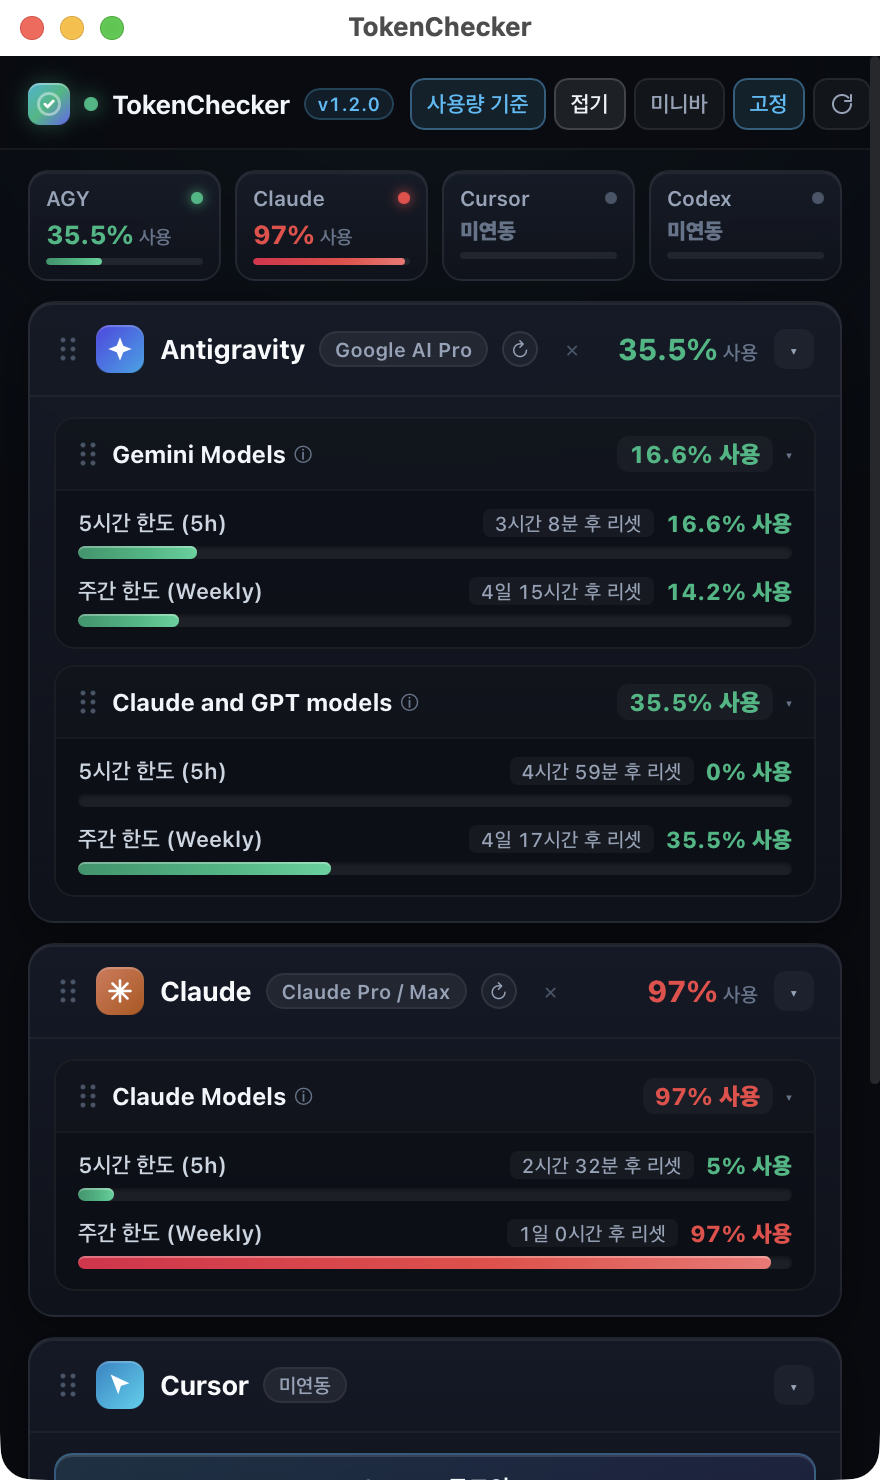
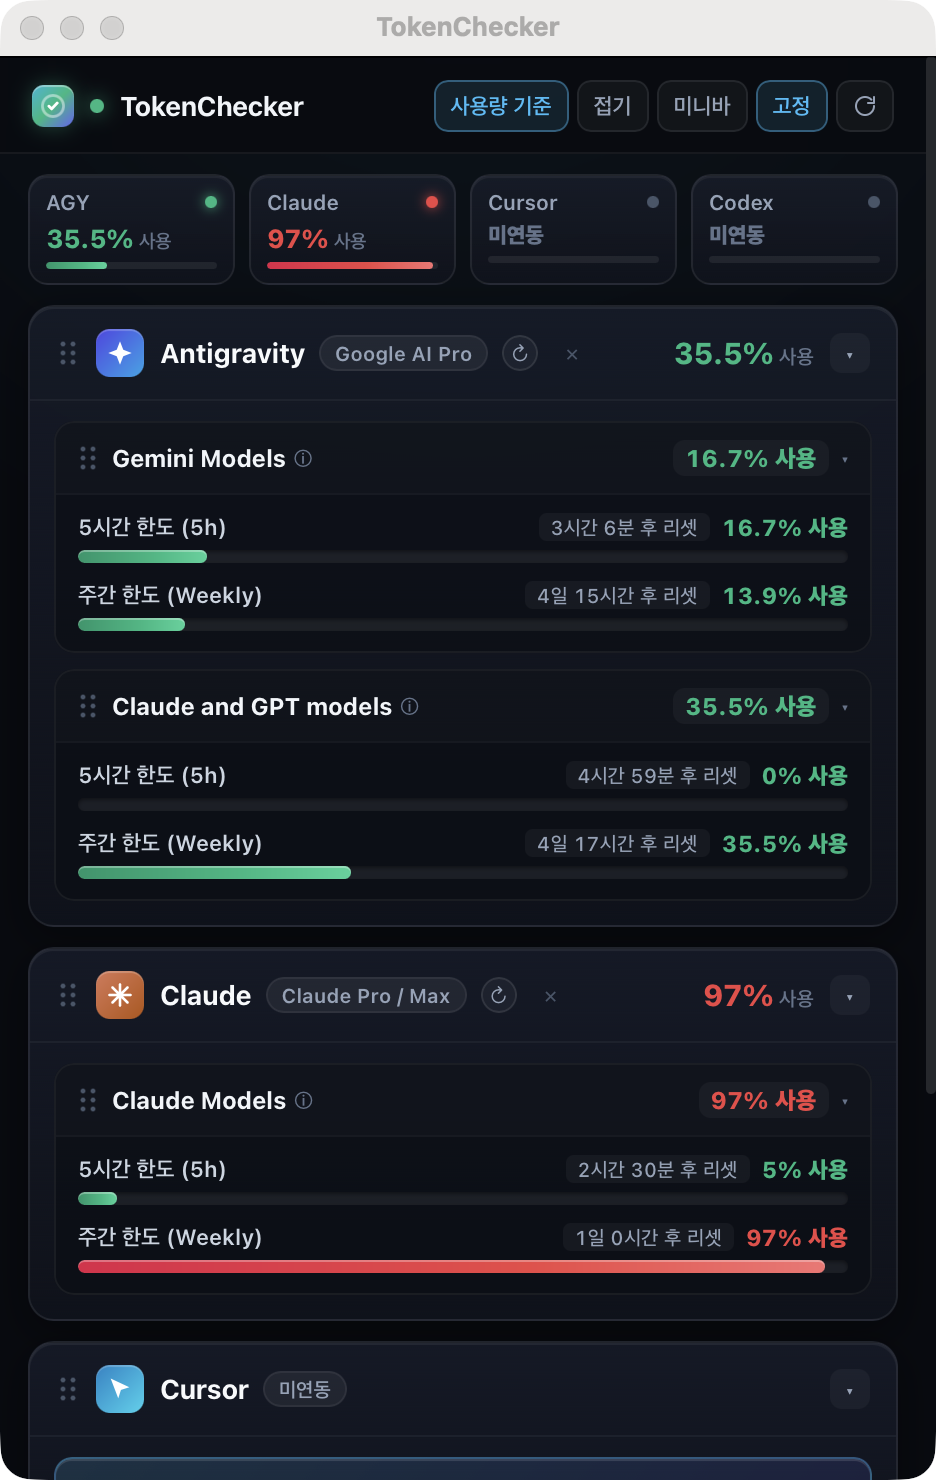
Improve top header spacing and move version badge to footer

diff --git a/widget.py b/widget.py
@@ -119,8 +119,8 @@ UI_HTML = r"""<!DOCTYPE html>
     display: flex;
     align-items: center;
     justify-content: space-between;
-    gap: 8px;
-    padding: 11px 14px 9px 14px;
+    gap: 12px;
+    padding: 12px 16px 10px 16px;
     background: rgba(8, 10, 15, 0.86);
     border-bottom: 1px solid rgba(255, 255, 255, 0.06);
     position: sticky;
@@ -133,9 +133,9 @@ UI_HTML = r"""<!DOCTYPE html>
   .title-area {
     display: flex;
     align-items: center;
-    gap: 7px;
+    gap: 8px;
     font-weight: 700;
-    font-size: 13px;
+    font-size: 13.5px;
     letter-spacing: -0.02em;
     color: #f1f5f9;
     white-space: nowrap;
@@ -924,7 +924,6 @@ UI_HTML = r"""<!DOCTYPE html>
       </span>
       <span class="live-indicator" id="pulseDot"></span>
       <span id="appTitleText">TokenChecker</span>
-      <span class="version-pill" id="appVersionBadge" onclick="checkForUpdates(true)" title="클릭하여 업데이트 확인">v__APP_VERSION__</span>
     </div>
     <div class="controls">
       <button class="ctrl-btn active" id="btnDisplayMode" onclick="toggleDisplayMode()" title="사용량(%) / 잔여량(%) 표시 기준 전환">사용량 기준</button>
@@ -949,7 +948,10 @@ UI_HTML = r"""<!DOCTYPE html>
   <div class="cards" id="cardsContainer"></div>
 
   <div class="footer">
-    <span>드래그하여 순서 변경 · 클릭하여 접기/펼치기</span>
+    <span style="display:inline-flex;align-items:center;gap:6px;">
+      <span class="version-pill" id="appVersionBadge" onclick="checkForUpdates(true)" title="클릭하여 업데이트 확인">v__APP_VERSION__</span>
+      <span>드래그하여 순서 변경</span>
+    </span>
     <span id="updatedAt">동기화 중...</span>
   </div>
 
@@ -2563,7 +2565,7 @@ def main():
         window = webview.create_window(
             title=APP_NAME,
             url=url,
-            width=440,
+            width=468,
             height=740,
             x=40,
             y=60,
